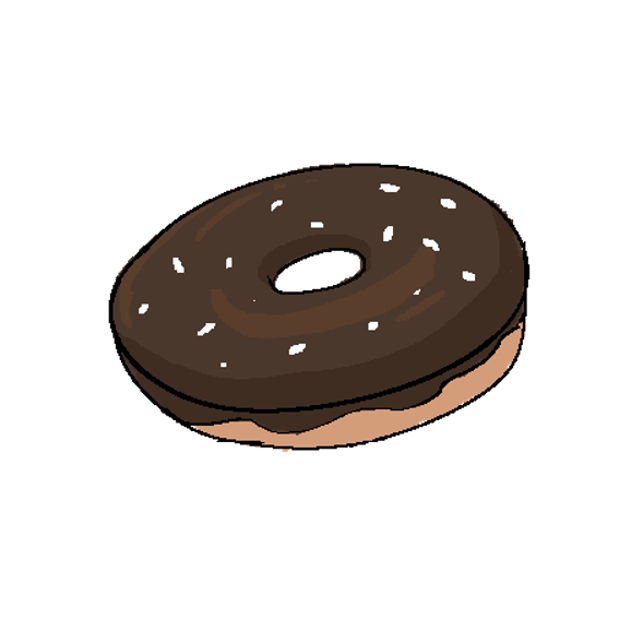
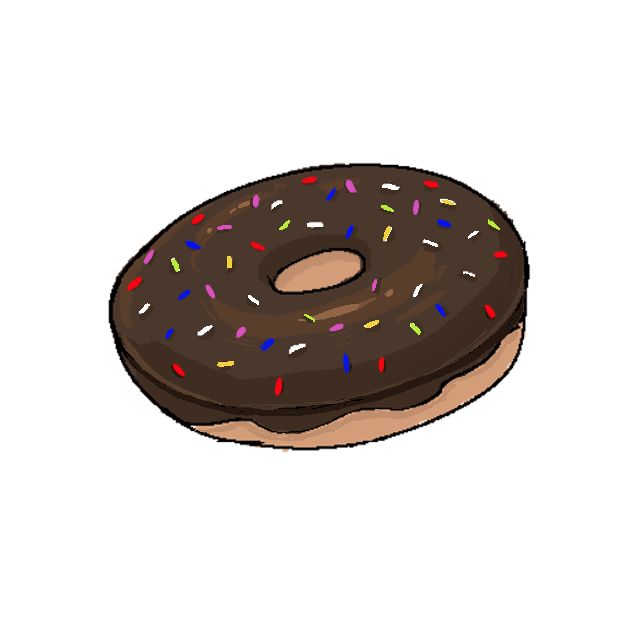
se actualizo la dona, se agrego el brillo, el queso y el espejo, ademas de un doble sonido al errar el menu

diff --git a/src/pages/data.js b/src/pages/data.js
@@ -13,6 +13,9 @@ import img10 from '../assets/item_11.png';
 import img11 from '../assets/item_12.png';
 import img12 from '../assets/item_13.png';
 import img13 from '../assets/item_14.png';
+import img14 from '../assets/item_15.png';
+import img15 from '../assets/item_16.png';
+import img16 from '../assets/item_17.png';
 
 
 
@@ -130,26 +133,26 @@ export const items = [
   },
   {
     id: 14,
-    title: "No Data",
-    img: img,
-    description: "",
-    artist: ''
+    title: "Brillos",
+    img: img14,
+    description: "Este objeto resplende una energia pura",
+    artist: 'Nayu'
 
   },
   {
     id: 15,
-    title: "No Data",
-    img: img,
-    description: "",
-    artist: ''
+    title: "Queso",
+    img: img15,
+    description: "El raton que aparecio en la casa de la Nayu encontro lo que buscaba",
+    artist: 'Kaizo'
 
   },
   {
     id: 16,
-    title: "No Data",
-    img: img,
-    description: "",
-    artist: ''
+    title: "Espejo",
+    img: img16,
+    description: "Espejito espejito, ¿quien es la mas linda?",
+    artist: 'Nayu'
 
   },
   {

diff --git a/src/components/Profile.jsx b/src/components/Profile.jsx
@@ -22,13 +22,21 @@ function Profile({ data, items }) {
   }, [data.id]);
 
   const handleClose = () => {
-    setShow(false);
-    audio.currentTime = 0; // reinicia si se repite rápido
-    audio.play();
-    setTimeout(() => {
-      navigate("/");
-    }, 400); // mismo tiempo que tu CSS
-  };
+  setShow(false);
+
+  const audio = new Audio(clickSound);
+
+  audio.play();
+
+  setTimeout(() => {
+    const audio2 = new Audio(clickSound);
+    audio2.play();
+  }, 200); // pequeño delay entre sonidos
+
+  setTimeout(() => {
+    navigate("/");
+  }, 400);
+};
   const navigate = useNavigate();
 
   const currentIndex = items.findIndex((i) => i.id === data.id);
